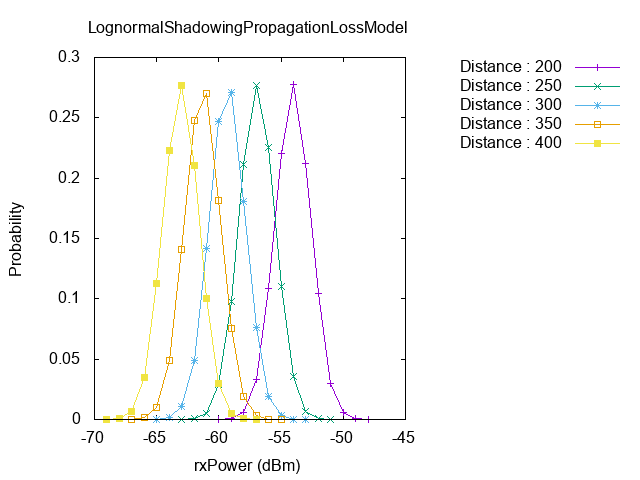
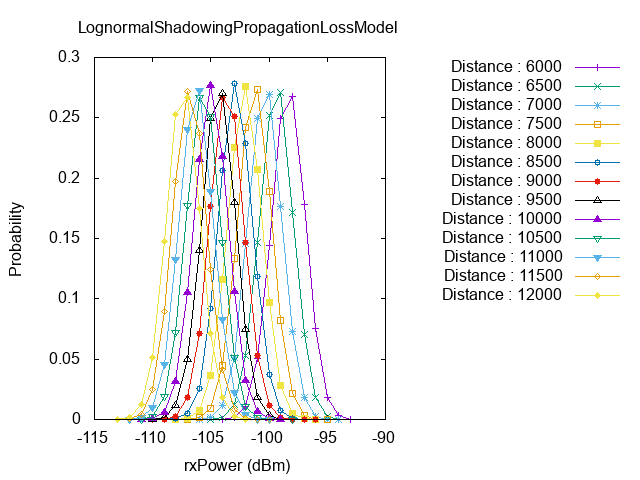
firth trial for hw2

diff --git a/scratch/random-propagation-loss-distance-expt.cc b/scratch/random-propagation-loss-distance-expt.cc
@@ -131,7 +131,7 @@ int main (int argc, char *argv[])
 	lognormalProp->SetAttribute	("Exponent",DoubleValue (3));
 	//lognormalProp->SetAttribute("ReferenceDistance",DoubleValue (1.0));
 
-        for (double distance = 200.0; distance <= 400.0; distance += 50.0)
+        for (double distance = 6000.0; distance <= 12000.0; distance += 500)
 	{
 
 		Gnuplot2dDataset dataset = TestProbabilistic (lognormalProp, distance);
